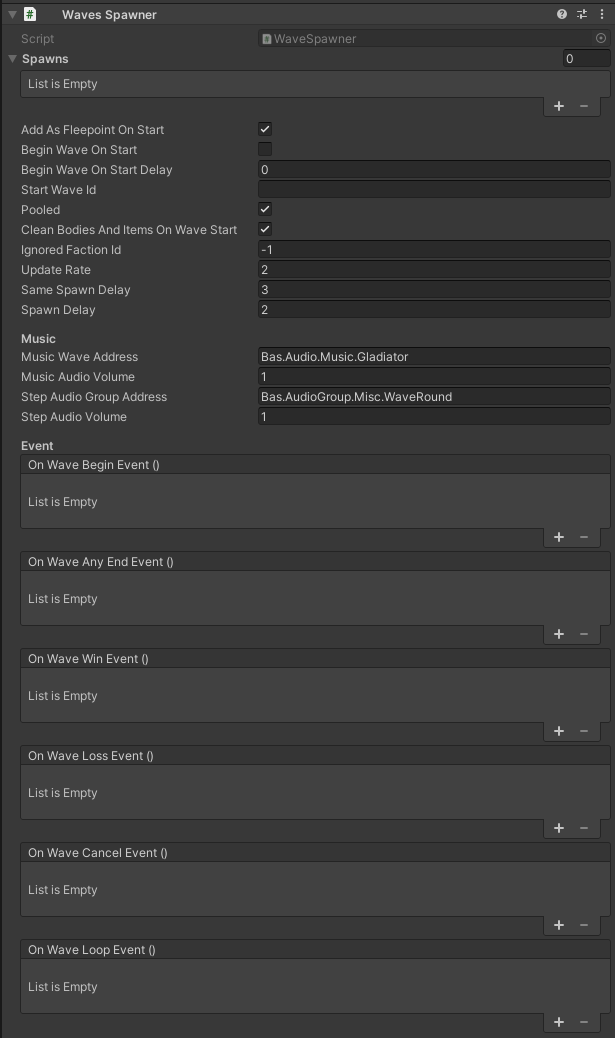
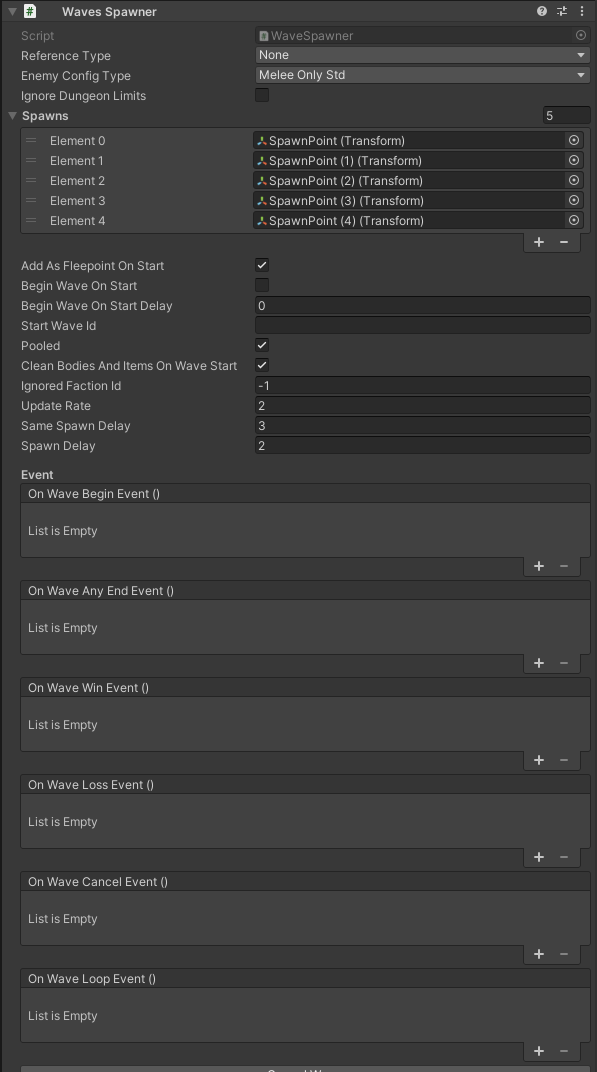
WaveSpawner Update

diff --git a/Components/ThunderRoad/Levels/WaveSpawner.md b/Components/ThunderRoad/Levels/WaveSpawner.md
@@ -16,6 +16,9 @@ The Wave Spawner is a script which allows creatures to spawn in the map. Through
 
 | Field                       | Description
 | ---                         | ---
+| Reference Type              | Decides what type of enemies to spawn. "None" will spawn normal enemies for the wave spawner, while "Enemy Config" selects from the "EnemyConfig" JSON to pick what enemies spawn.
+| Enemy Config Type           | Depicts what EnemyConfig to pick the enemy from.
+| Ignore Dungeon Limits       | Ignores the Dungeon Maximum Creature Spawn limit.
 | Spawns                      | Spawns are the spawnpoints that AI will spawn at at the start of a wave. These GameObjects can be a child of the wavespawner, with no script required except to be referenced here. `It is recommended to place these gameobjects as low to the ground as possible. The blue arrow / Z Axis points forward, as well as green arrow pointing upwards. Ensure that these gameobjects are not tilted on the Y or X axis as this can cause issues.`
 | Add as FleePoint on Start   | This entails that when a wave ends or an enemy has been disarmed (with no available weapon), enemies will flee to these points to despawn. 
 | Begin Wave on Start         | When ticked, a wave will start as soon as the level is loaded.
@@ -27,11 +30,6 @@ The Wave Spawner is a script which allows creatures to spawn in the map. Through
 | Update Rate                 | Determines how often the spawner checks to see if it can spawn a new creature.
 | Same Spawn Delay            | Determines the delay between spawning creatures at the same spawn point.
 | Spawn Delay                 | Delay between AI spawns.
-| **Music**
-| Music Wave Address          | The addressable of what music plays when a wave is in progress.
-| Music Audio Volume          | The audio of the playing music when wave is in progress. Separate from in game audio settings.
-| Step Audio Group Address    | The address of the audio that plays 1 second after a wave ends/finishes.
-| Step Audio Volume           | Audio volume of `Step Audio Group Address`.
 
 ## Events
 
@@ -43,10 +41,11 @@ When the event is met, its output is played. For information on Unity Events, se
 
 | Event                       | Description
 | ---                         | ---
-| On Wave Begin Event         | Completes event when a wave has started.
-| On Wave Any End Event       | Completes event when a wave is ended in any way.
-| On Wave Win Event           | Completes event when a wave has bee won (NPC list in wave has ended).
-| On Wave Loss Event          | Completes event when a wave has been lost (Player Dying).
-| On Wave Loop  Event         | Completes event when a wave has finished the NPC list and looped.
+| On Wave Begin Event         | Plays event when a wave has started.
+| On Wave Any End Event       | Plays event when a wave is ended in any way.
+| On Wave Win Event           | Plays event when a wave has bee won (NPC list in wave has ended).
+| On Wave Loss Event          | Plays event when a wave has been lost (Player Dying).
+| On Wave Cancel Event        | Plays event when the wave is cancelled.
+| On Wave Loop  Event         | Plays event when a wave has finished the NPC list and looped.
 
 [WaveSpawner]: {{ site.baseurl }}/assets/components/WaveSpawner/WaveSpawnerScript.PNG
